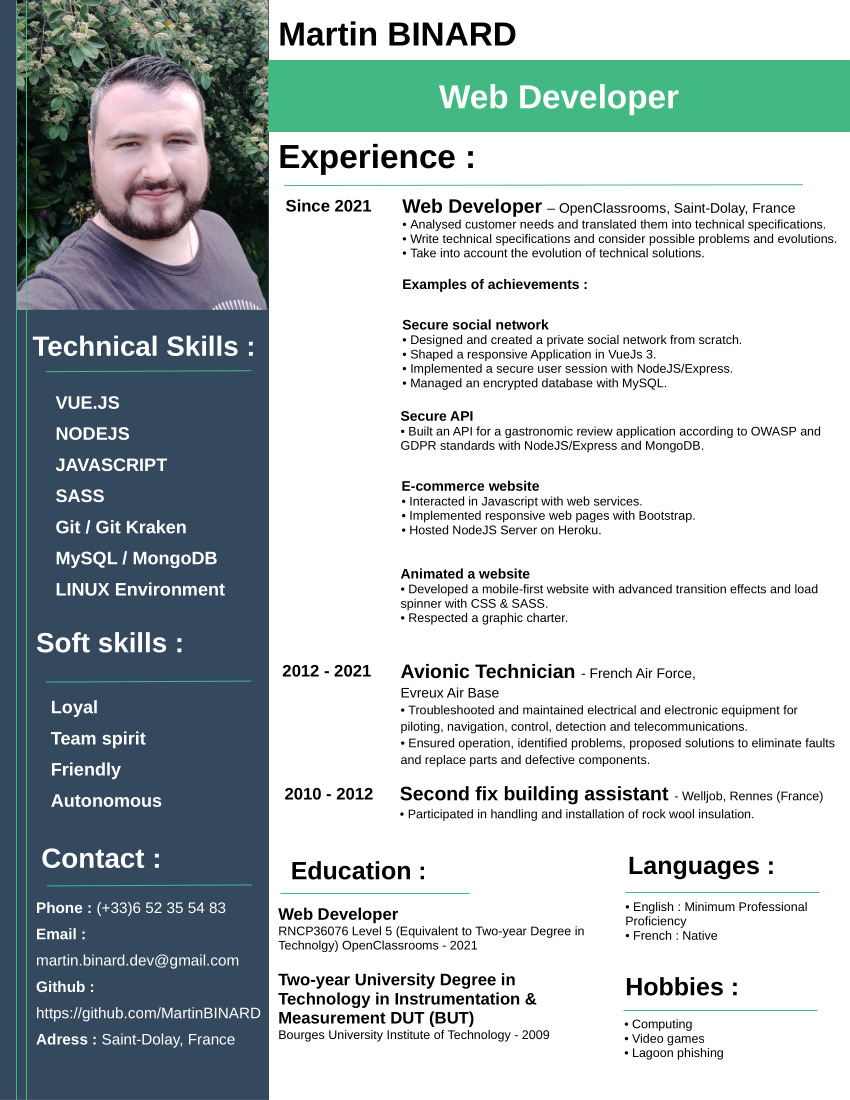
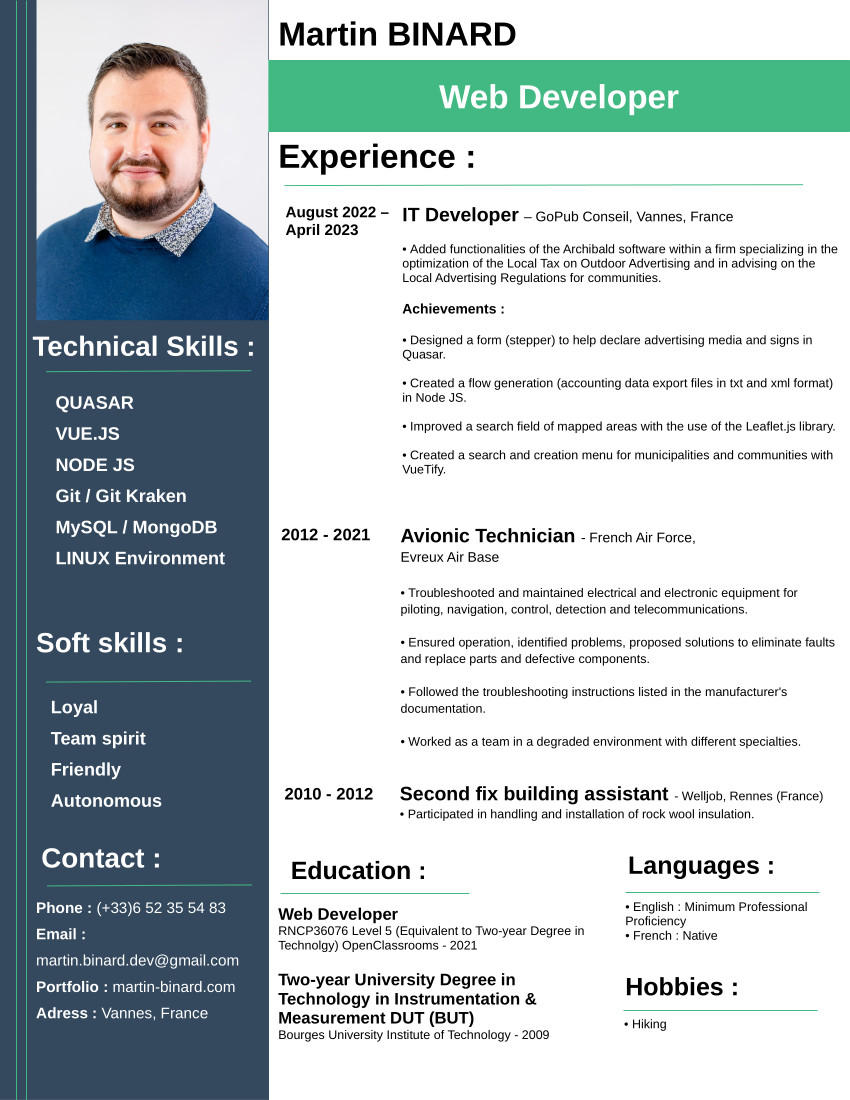
Update portfolio and CVs

diff --git a/src/index.html b/src/index.html
@@ -52,7 +52,7 @@
               >I'm Javascript Web Developer mainly focused on interface of
               website in
             </span>
-            <span class="highlight">VueJs</span>
+            <span class="highlight">Quasar, VueJs</span>
             <span id="my-description-part2">
               and also having skills in NodeJS and Express server.</span
             >
@@ -88,9 +88,8 @@
               ><span id="about-subtitle-right"> about me</span>
             </h4>
             <p id="about-description">
-              After created my last project, a social private network using
-              VueJS, NodeJS, Sequelize and MySQL. I would like to bring my
-              expertise in VueJs and deepen my skills in TDD.
+              After contributing to the development of Archibald software under Quasar, Vuetify, NodeJS, Sequelize and MySQL.
+              I want to bring my expertise in VueJs and deepen my web security skills acquired during my last experience.
             </p>
           </div>
           <div class="right-about">
@@ -120,34 +119,13 @@
                     d="M116.347 96.736c-.917-5.711-4.641-10.508-15.672-14.981-3.832-1.761-8.104-3.022-9.377-5.926-.452-1.69-.512-2.642-.226-3.665.821-3.32 4.784-4.355 7.925-3.403 2.023.678 3.938 2.237 5.093 4.724 5.402-3.498 5.391-3.475 9.163-5.879-1.381-2.141-2.118-3.129-3.022-4.045-3.249-3.629-7.676-5.498-14.756-5.355l-3.688.477c-3.534.893-6.902 2.748-8.877 5.235-5.926 6.724-4.236 18.492 2.975 23.335 7.104 5.332 17.54 6.545 18.873 11.531 1.297 6.104-4.486 8.08-10.234 7.378-4.236-.881-6.592-3.034-9.139-6.949-4.688 2.713-4.688 2.713-9.508 5.485 1.143 2.499 2.344 3.63 4.26 5.795 9.068 9.198 31.76 8.746 35.83-5.176.165-.478 1.261-3.666.38-8.581zM69.462 58.943H57.753l-.048 30.272c0 6.438.333 12.34-.714 14.149-1.713 3.558-6.152 3.117-8.175 2.427-2.059-1.012-3.106-2.451-4.319-4.485-.333-.584-.583-1.036-.667-1.071l-9.52 5.83c1.583 3.249 3.915 6.069 6.902 7.901 4.462 2.678 10.459 3.499 16.731 2.059 4.082-1.189 7.604-3.652 9.448-7.401 2.666-4.915 2.094-10.864 2.07-17.444.06-10.735.001-21.468.001-32.237z"
                   ></path>
                 </svg>
-                <svg class="logo" id="html" viewBox="0 0 128 128">
-                  <path
-                    fill="#42b983"
-                    d="M9.032 2l10.005 112.093 44.896 12.401 45.02-12.387L118.968 2H9.032zm89.126 26.539l-.627 7.172L97.255 39H44.59l1.257 14h50.156l-.336 3.471-3.233 36.119-.238 2.27L64 102.609v.002l-.034.018-28.177-7.423L33.876 74h13.815l.979 10.919L63.957 89H64v-.546l15.355-3.875L80.959 67H33.261l-3.383-38.117L29.549 25h68.939l-.33 3.539z"
-                  ></path>
-                </svg>
-                <svg class="logo" id="css" viewBox="0 0 128 128">
-                  <path
-                    fill="#42b983"
-                    d="M8.76 1l10.055 112.883 45.118 12.58 45.244-12.626L119.24 1H8.76zm89.591 25.862l-3.347 37.605.01.203-.014.467v-.004l-2.378 26.294-.262 2.336L64 101.607v.001l-.022.019-28.311-7.888L33.75 72h13.883l.985 11.054 15.386 4.17-.004.008v-.002l15.443-4.229L81.075 65H48.792l-.277-3.043-.631-7.129L47.553 51h34.749l1.264-14H30.64l-.277-3.041-.63-7.131L29.401 23h69.281l-.331 3.862z"
-                  ></path>
-                </svg>
-                <svg class="logo" id="sass" viewBox="0 0 128 128">
-                  <path
-                    fill-rule="evenodd"
-                    clip-rule="evenodd"
-                    fill="#42b983"
-                    d="M1.219 56.156c0 .703.207 1.167.323 1.618.756 2.933 2.381 5.45 4.309 7.746 2.746 3.272 6.109 5.906 9.554 8.383 2.988 2.148 6.037 4.248 9.037 6.38.515.366 1.002.787 1.561 1.236-.481.26-.881.489-1.297.7-3.959 2.008-7.768 4.259-11.279 6.986-2.116 1.644-4.162 3.391-5.607 5.674-2.325 3.672-3.148 7.584-1.415 11.761.506 1.22 1.278 2.274 2.367 3.053.353.252.749.502 1.162.6 1.058.249 2.136.412 3.207.609l3.033-.002c3.354-.299 6.407-1.448 9.166-3.352 4.312-2.976 7.217-6.966 8.466-12.087.908-3.722.945-7.448-.125-11.153a11.696 11.696 0 00-.354-1.014c-.13-.333-.283-.657-.463-1.072l6.876-3.954.103.088c-.125.409-.258.817-.371 1.23-.817 2.984-1.36 6.02-1.165 9.117.208 3.3 1.129 6.389 3.061 9.146 1.562 2.23 5.284 2.313 6.944.075.589-.795 1.16-1.626 1.589-2.513 1.121-2.315 2.159-4.671 3.23-7.011l.187-.428c-.077 1.108-.167 2.081-.208 3.055-.064 1.521.025 3.033.545 4.48.445 1.238 1.202 2.163 2.62 2.326.97.111 1.743-.333 2.456-.896a10.384 10.384 0 002.691-3.199c1.901-3.491 3.853-6.961 5.576-10.54 1.864-3.871 3.494-7.855 5.225-11.792l.286-.698c.409 1.607.694 3.181 1.219 4.671.61 1.729 1.365 3.417 2.187 5.058.389.775.344 1.278-.195 1.928-2.256 2.72-4.473 5.473-6.692 8.223-.491.607-.98 1.225-1.389 1.888a3.701 3.701 0 00-.48 1.364 1.737 1.737 0 001.383 1.971 9.661 9.661 0 002.708.193c3.097-.228 5.909-1.315 8.395-3.157 3.221-2.386 4.255-5.642 3.475-9.501-.211-1.047-.584-2.065-.947-3.074-.163-.455-.174-.774.123-1.198 2.575-3.677 4.775-7.578 6.821-11.569.081-.157.164-.314.306-.482.663 3.45 1.661 6.775 3.449 9.792-.912.879-1.815 1.676-2.632 2.554-1.799 1.934-3.359 4.034-4.173 6.595-.35 1.104-.619 2.226-.463 3.405.242 1.831 1.742 3.021 3.543 2.604 3.854-.892 7.181-2.708 9.612-5.925 1.636-2.166 1.785-4.582 1.1-7.113-.188-.688-.411-1.365-.651-2.154.951-.295 1.878-.649 2.837-.868 4.979-1.136 9.904-.938 14.702.86 2.801 1.05 5.064 2.807 6.406 5.571 1.639 3.379.733 6.585-2.452 8.721-.297.199-.637.356-.883.605a.869.869 0 00-.205.67c.021.123.346.277.533.275 1.047-.008 1.896-.557 2.711-1.121 2.042-1.413 3.532-3.314 3.853-5.817l.063-.188-.077-1.63c-.031-.094.023-.187.016-.258-.434-3.645-2.381-6.472-5.213-8.688-3.28-2.565-7.153-3.621-11.249-3.788a25.401 25.401 0 00-9.765 1.503c-.897.325-1.786.71-2.688 1.073-.121-.219-.251-.429-.358-.646-.926-1.896-2.048-3.708-2.296-5.882-.176-1.544-.392-3.086-.025-4.613.353-1.469.813-2.913 1.246-4.362.223-.746.066-1.164-.646-1.5a2.854 2.854 0 00-.786-.258c-1.75-.254-3.476-.109-5.171.384-.6.175-1.036.511-1.169 1.175-.076.381-.231.746-.339 1.122-.443 1.563-.757 3.156-1.473 4.645-1.794 3.735-3.842 7.329-5.938 10.897-.227.385-.466.763-.752 1.23-.736-1.54-1.521-2.922-1.759-4.542-.269-1.832-.481-3.661-.025-5.479.339-1.356.782-2.687 1.19-4.025.193-.636.104-.97-.472-1.305-.291-.169-.62-.319-.948-.368a11.643 11.643 0 00-5.354.438c-.543.176-.828.527-.994 1.087-.488 1.652-.904 3.344-1.589 4.915-2.774 6.36-5.628 12.687-8.479 19.013-.595 1.321-1.292 2.596-1.963 3.882-.17.326-.418.613-.63.919-.17-.201-.236-.339-.235-.477.005-.813-.092-1.65.063-2.436a172.189 172.189 0 011.578-7.099c.47-1.946 1.017-3.874 1.538-5.807.175-.647.178-1.252-.287-1.796-.781-.911-2.413-1.111-3.381-.409l-.428.242.083-.69c.204-1.479.245-2.953-.161-4.41-.506-1.816-1.802-2.861-3.686-2.803-.878.027-1.8.177-2.613.497-3.419 1.34-6.048 3.713-8.286 6.568a2.592 2.592 0 01-.757.654c-2.893 1.604-5.795 3.188-8.696 4.778l-3.229 1.769c-.866-.826-1.653-1.683-2.546-2.41-2.727-2.224-5.498-4.393-8.244-6.592-2.434-1.949-4.792-3.979-6.596-6.56-1.342-1.92-2.207-4.021-2.29-6.395-.105-3.025.753-5.789 2.293-8.362 1.97-3.292 4.657-5.934 7.611-8.327 3.125-2.53 6.505-4.678 10.008-6.639 4.901-2.743 9.942-5.171 15.347-6.774 5.542-1.644 11.165-2.585 16.965-1.929 2.28.258 4.494.78 6.527 1.895 1.557.853 2.834 1.97 3.428 3.716.586 1.718.568 3.459.162 5.204-.825 3.534-2.76 6.447-5.195 9.05-3.994 4.267-8.866 7.172-14.351 9.091a39.478 39.478 0 01-9.765 2.083c-2.729.229-5.401-.013-7.985-.962-1.711-.629-3.201-1.591-4.399-2.987-.214-.25-.488-.521-.887-.287-.391.23-.46.602-.329.979.219.626.421 1.278.762 1.838.857 1.405 2.107 2.424 3.483 3.298 2.643 1.681 5.597 2.246 8.66 2.377 4.648.201 9.183-.493 13.654-1.74 6.383-1.78 11.933-4.924 16.384-9.884 3.706-4.13 6.353-8.791 6.92-14.419.277-2.747-.018-5.438-1.304-7.944-1.395-2.715-3.613-4.734-6.265-6.125C68.756 18.179 64.588 17 60.286 17h-4.31c-5.21 0-10.247 1.493-15.143 3.274-3.706 1.349-7.34 2.941-10.868 4.703-7.683 3.839-14.838 8.468-20.715 14.833-2.928 3.171-5.407 6.67-6.833 10.79a40.494 40.494 0 00-1.111 3.746m27.839 36.013c-.333 4.459-2.354 8.074-5.657 11.002-1.858 1.646-3.989 2.818-6.471 3.23-.9.149-1.821.185-2.694-.188-1.245-.532-1.524-1.637-1.548-2.814-.037-1.876.62-3.572 1.521-5.186 1.176-2.104 2.9-3.708 4.741-5.206 2.9-2.361 6.046-4.359 9.268-6.245l.243-.1c.498 1.84.735 3.657.597 5.507zM54.303 70.98c-.235 1.424-.529 2.849-.945 4.229-1.438 4.777-3.285 9.406-5.282 13.973-.369.845-.906 1.616-1.373 2.417a1.689 1.689 0 01-.283.334c-.578.571-1.126.541-1.418-.206-.34-.868-.549-1.797-.729-2.716-.121-.617-.092-1.265-.13-1.897.039-4.494 1.41-8.578 3.736-12.38.959-1.568 2.003-3.062 3.598-4.054a6.27 6.27 0 011.595-.706c.85-.239 1.372.154 1.231 1.006zm17.164 21.868l6.169-7.203c.257 2.675-4.29 8.015-6.169 7.203zm19.703-4.847c-.436.25-.911.43-1.358.661-.409.212-.544-.002-.556-.354a2.385 2.385 0 01.093-.721c.833-2.938 2.366-5.446 4.647-7.486l.16-.082c1.085 3.035-.169 6.368-2.986 7.982z"
-                  ></path>
-                </svg>
               </div>
               <h4 id="frontend-title">
-                Frontend VueJS, Javascript framework, HTML, CSS, SASS
+                Frontend Quasar, VueJS framework
               </h4>
               <p id="frontend-description">
-                I'm able to create reactive and dymanic applications with
-                Javascript framework such as VueJS or simple reponsive web pages
-                with HTML, CSS, SASS and vanilla Javascript.
+                I contributed to adding functionalities of a reactive 
+                and dynamic application with a Javascript framework such as Quasar based on VueJS.
               </p>
             </div>
             <div class="skills-item" tabindex="0">
@@ -158,7 +136,6 @@
                     d="M112.771 30.334L68.674 4.729c-2.781-1.584-6.402-1.584-9.205 0L14.901 30.334C12.031 31.985 10 35.088 10 38.407v51.142c0 3.319 2.084 6.423 4.954 8.083l11.775 6.688c5.628 2.772 7.617 2.772 10.178 2.772 8.333 0 13.093-5.039 13.093-13.828v-50.49c0-.713-.371-1.774-1.071-1.774h-5.623C42.594 41 41 42.061 41 42.773v50.49c0 3.896-3.524 7.773-10.11 4.48L18.723 90.73c-.424-.23-.723-.693-.723-1.181V38.407c0-.482.555-.966.982-1.213l44.424-25.561c.415-.235 1.025-.235 1.439 0l43.882 25.555c.42.253.272.722.272 1.219v51.142c0 .488.183.963-.232 1.198l-44.086 25.576c-.378.227-.847.227-1.261 0l-11.307-6.749c-.341-.198-.746-.269-1.073-.086-3.146 1.783-3.726 2.02-6.677 3.043-.726.253-1.797.692.41 1.929l14.798 8.754a9.294 9.294 0 004.647 1.246c1.642 0 3.25-.426 4.667-1.246l43.885-25.582c2.87-1.672 4.23-4.764 4.23-8.083V38.407c0-3.319-1.36-6.414-4.229-8.073zM77.91 81.445c-11.726 0-14.309-3.235-15.17-9.066-.1-.628-.633-1.379-1.272-1.379h-5.731c-.709 0-1.279.86-1.279 1.566 0 7.466 4.059 16.512 23.453 16.512 14.039 0 22.088-5.455 22.088-15.109 0-9.572-6.467-12.084-20.082-13.886-13.762-1.819-15.16-2.738-15.16-5.962 0-2.658 1.184-6.203 11.374-6.203 9.105 0 12.461 1.954 13.842 8.091.118.577.645.991 1.24.991h5.754c.354 0 .692-.143.94-.396.24-.272.367-.613.335-.979-.891-10.568-7.912-15.493-22.112-15.493-12.631 0-20.166 5.334-20.166 14.275 0 9.698 7.497 12.378 19.622 13.577 14.505 1.422 15.633 3.542 15.633 6.395 0 4.955-3.978 7.066-13.309 7.066z"
                   ></path>
                 </svg>
-                <svg class="logo" id="express" viewBox="0 0 128 128">
                   <path
                     fill="#42b983"
                     d="M126.67 98.44c-4.56 1.16-7.38.05-9.91-3.75-5.68-8.51-11.95-16.63-18-24.9-.78-1.07-1.59-2.12-2.6-3.45C89 76 81.85 85.2 75.14 94.77c-2.4 3.42-4.92 4.91-9.4 3.7l26.92-36.13L67.6 29.71c4.31-.84 7.29-.41 9.93 3.45 5.83 8.52 12.26 16.63 18.67 25.21 6.45-8.55 12.8-16.67 18.8-25.11 2.41-3.42 5-4.72 9.33-3.46-3.28 4.35-6.49 8.63-9.72 12.88-4.36 5.73-8.64 11.53-13.16 17.14-1.61 2-1.35 3.3.09 5.19C109.9 76 118.16 87.1 126.67 98.44zM1.33 61.74c.72-3.61 1.2-7.29 2.2-10.83 6-21.43 30.6-30.34 47.5-17.06C60.93 41.64 63.39 52.62 62.9 65H7.1c-.84 22.21 15.15 35.62 35.53 28.78 7.15-2.4 11.36-8 13.47-15 1.07-3.51 2.84-4.06 6.14-3.06-1.69 8.76-5.52 16.08-13.52 20.66-12 6.86-29.13 4.64-38.14-4.89C5.26 85.89 3 78.92 2 71.39c-.15-1.2-.46-2.38-.7-3.57q.03-3.04.03-6.08zm5.87-1.49h50.43c-.33-16.06-10.33-27.47-24-27.57-15-.12-25.78 11.02-26.43 27.57z"
@@ -210,7 +187,7 @@
               <h4>Backend NodeJS, Express, MongoDB, Sequelize, MySQL</h4>
               <p id="backend-description">
                 if you need to develop a REST API, i master the framework
-                NodeJS, Express server communicating with MongoDB or MySQL
+                NodeJS, Express server with MongoDB or MySQL
                 database through Sequelize library.
               </p>
             </div>
@@ -465,7 +442,7 @@
         <div class="img-selected" id="french">
           <img src="assets/img/french.png" alt="langue française" />
         </div>
-        <span class="material-symbols-outlined">expand_more</span>
+        <span class="material-symbols-outlined btn-expand">expand_more</span>
       </button>
       <div class="bloc-links">
         <ul>

diff --git a/src/app/lang.js b/src/app/lang.js
@@ -11,13 +11,12 @@ export function toggleLanguage() {
       aboutRight: "me",
       aboutSubtitleLeft: "informations",
       aboutSubtitleRight: " about me",
-      aboutDescription:
-        "After created my last project, a social private network using VueJS, NodeJS, Sequelize and MySQL. I would like to bring my expertise in VueJs and deepen my skills in TDD.",
-      frontendTitle: "Frontend VueJS, Javascript framework, HTML, CSS, SASS",
+      aboutDescription: "After contributing to the development of Archibald software under Quasar, Vuetify, NodeJS, Sequelize and MySQL. I want to bring my expertise in VueJs and deepen my web security skills acquired during my last experience.",
+      frontendTitle: "Frontend Quasar, VueJS framework",
       frontendDescription:
-        "I'm able to create reactive and dymanic applications with Javascript framework such as VueJS or simple reponsive web pages with HTML, CSS, SASS and vanilla Javascript.",
+        "I contributed to adding functionalities of a reactive and dynamic application with a Javascript framework such as Quasar based on VueJS.",
       backendDescription:
-        "if you need to develop a REST API, i master the framework NodeJS, Express server communicating with MongoDB or MySQL database through Sequelize library.",
+        "if you need to develop a REST API, i master the framework NodeJS, Express server with MongoDB or MySQL database through Sequelize library.",
       linuxTitle: "Linux environments, Arch linux, Debian",
       linuxDescription:
         "I'm familiar with UNIX commands and use a Linux Arch-based distribution on my daily computer.",
@@ -59,12 +58,12 @@ export function toggleLanguage() {
       aboutSubtitleLeft: "informations",
       aboutSubtitleRight: " me concernant",
       aboutDescription:
-        "Après avoir créé mon dernier projet, un réseau social privé utilisant VueJS, NodeJS, Sequelize et MySQL. Je souhaite apporter mon expertise en VueJs et approfondir mes compétences en TDD.",
-      frontendTitle: "Frontend VueJS, framework Javascript, HTML, CSS, SASS",
+        "Après avoir contribué au développement du logiciel Archibald sous Quasar, Vuetify, NodeJS, Sequelize et MySQL. Je souhaite apporter mon expertise en VueJs et approfondir mes compétences en sécurité web acquises au cours de ma dernière expérience.",
+      frontendTitle: "Frontend Quasar, VueJS framework Javascript",
       frontendDescription:
-        "Je suis capable de créer des applications réactives et dynamiques avec un framework Javascript tel que VueJS ou de simples pages web réactives avec HTML, CSS, SASS et Javascript natif.",
+        "J'ai contribué à l'ajout de fonctionnalités d'une application réactive et dynamique avec un framework Javascript tel que Quasar basé sur VueJS.",
       backendDescription:
-        "Si vous avez besoin de développer une API REST, je maîtrise le framework NodeJS, serveur Express communiquant avec la base de données MongoDB ou MySQL via la librairie Sequelize.",
+        "Si vous avez besoin de développer une API REST, je maîtrise le framework NodeJS, serveur Express avec une base de données MongoDB ou MySQL via la librairie Sequelize.",
       linuxTitle: "Environnements Linux, Arch linux, Debian",
       linuxDescription:
         "Je connais les commandes UNIX et j'utilise quotidiennement une distribution basée sur Arch Linux sur mon ordinateur.",

diff --git a/src/assets/styles/layout/_about.scss b/src/assets/styles/layout/_about.scss
@@ -1,7 +1,8 @@
 .about-container {
   display: grid;
-  grid-template-rows: 1fr 2fr;
-  padding: 3.5rem 0 5rem;
+  grid-template-rows: 0.5fr 1fr;
+  // margin-top: 2rem;
+  padding: 2rem 0 4rem;
   .left-about {
     padding-right: 1rem;
     max-width: 70rem;
@@ -28,7 +29,7 @@
       padding: 2rem;
 	    outline: var(--color-secondary);
       h4 {
-        font-size: 1.5rem;
+        font-size: 1.4rem;
         transition: all 0.3s ease-in-out;
         padding: 1rem 0;
       }

diff --git a/src/assets/styles/layout/_controls.scss b/src/assets/styles/layout/_controls.scss
@@ -75,7 +75,7 @@
     width: 32px;
     height: 20px;
   }
-  .material-symbols-outlined {
+  .btn-expand {
     color: var(--color-secondary);
   }
   .img-selected {

diff --git a/README.md b/README.md
@@ -1,6 +1,6 @@
 # My portfolio
 
-**Main branch - Commit #46**
+**Main branch - Commit #47**
 
 ## Website link
 
@@ -13,7 +13,7 @@
 
 ## Change done
 
-- Add secondary color to expand icon.
+- Update portfolio and CVs.
 
 ## License
 
